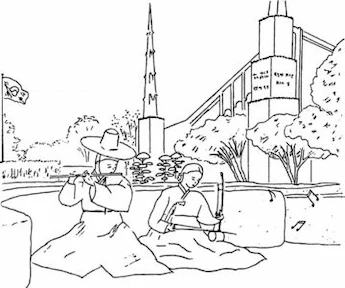
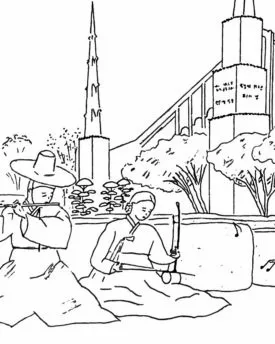
w06 final project

diff --git a/project/scripts/illustrations.js b/project/scripts/illustrations.js
@@ -36,11 +36,18 @@ const drawings = [
         alt: "A Joseon era family awaits their proxy ordinances at the Seoul Korea Temple of the Church of Jesus Christ of Latter-day Saints",
     },
     {
+        title: "Praise ye the Lord",
+        location: "East",
+        imgLocation: "images/music.webp",
+        alt: "Illustration of Joseon era couple at the main entrance of the Seoul Korea Temple of the Church of Jesus Christ of Latter-day Saints"
+    },
+    {
         title: "A Joseon Divine Daughter",
         location: "East",
         imgLocation: "images/sorrow.webp",
         alt: "Drawing of a Joseon era young woman weeps on the grassy plateau outside the Seoul Korea Temple of the Church of Jesus Christ of Latter- day Saints",
     },
+
     {
         title: "Think Celestial!",
         location: "East, South, West",
